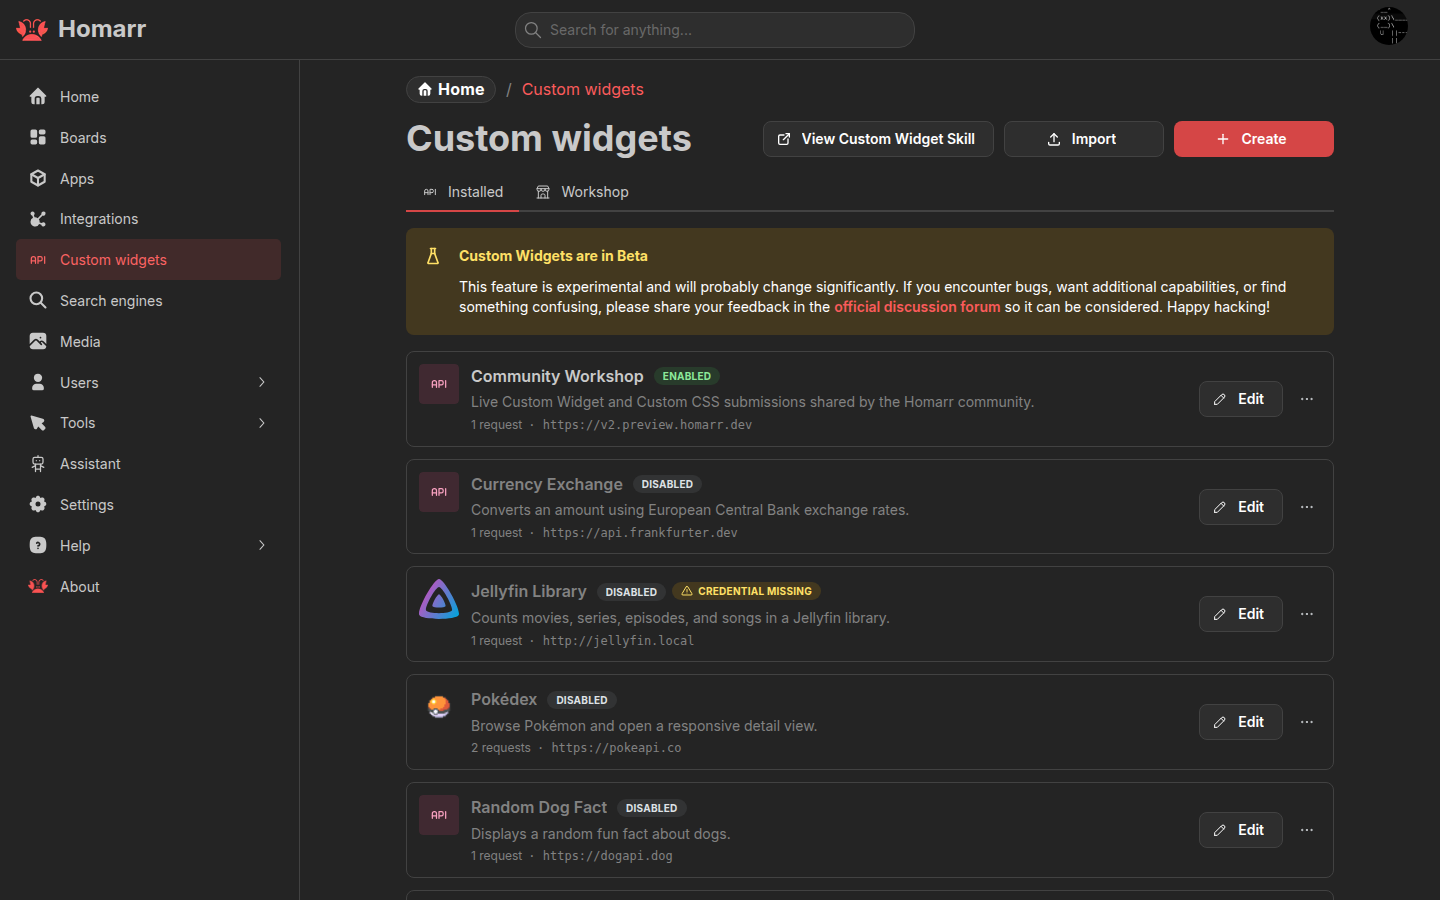
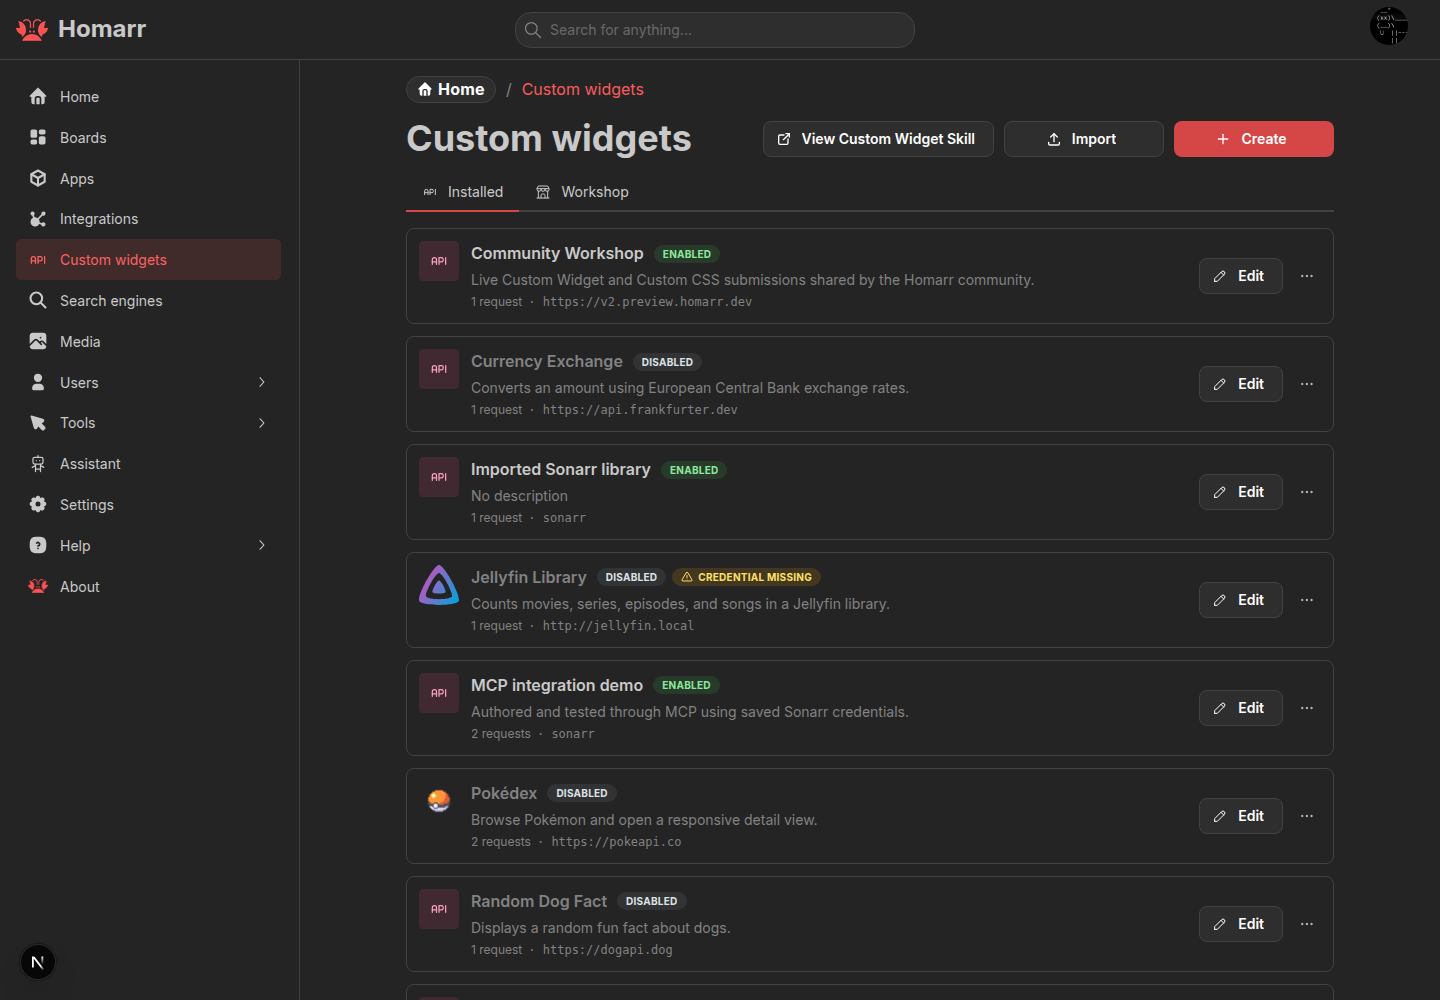
fix: polish custom widget selection and review safeguards

diff --git a/packages/ui/src/components/select-with-custom-items.tsx b/packages/ui/src/components/select-with-custom-items.tsx
@@ -1,8 +1,8 @@
 "use client";
 
-import { useCallback, useMemo } from "react";
+import { useCallback, useMemo, useState } from "react";
 import type { SelectProps } from "@mantine/core";
-import { Combobox, ComboboxClearButton, Input, InputBase, useCombobox } from "@mantine/core";
+import { Combobox, ComboboxClearButton, Input, InputBase, ScrollArea, useCombobox } from "@mantine/core";
 import { useUncontrolled } from "@mantine/hooks";
 
 interface BaseSelectItem {
@@ -21,10 +21,13 @@ export interface SelectWithCustomItemsProps<TSelectItem extends BaseSelectItem> 
   onFocus?: (event: React.FocusEvent<HTMLButtonElement>) => void;
   w?: string;
   withinPortal?: boolean;
+  searchable?: boolean;
+  searchPlaceholder?: string;
+  nothingFoundMessage?: string;
 }
 
 type Props<TSelectItem extends BaseSelectItem> = SelectWithCustomItemsProps<TSelectItem> & {
-  SelectOption: React.ComponentType<TSelectItem>;
+  SelectOption: React.ComponentType<TSelectItem & { checked?: boolean }>;
 };
 
 export const SelectWithCustomItems = <TSelectItem extends BaseSelectItem>({
@@ -37,54 +40,67 @@ export const SelectWithCustomItems = <TSelectItem extends BaseSelectItem>({
   w,
   clearable,
   withinPortal = false,
+  searchable = false,
+  searchPlaceholder,
+  nothingFoundMessage,
   ...props
 }: Props<TSelectItem>) => {
+  const [search, setSearch] = useState("");
   const combobox = useCombobox({
-    onDropdownClose: () => combobox.resetSelectedOption(),
+    onDropdownClose: () => {
+      combobox.resetSelectedOption();
+      setSearch("");
+    },
+    onDropdownOpen: () => {
+      if (searchable) combobox.focusSearchInput();
+    },
   });
 
-  const [_value, setValue] = useUncontrolled({
+  const [selectedValue, setValue] = useUncontrolled({
     value,
     defaultValue,
     finalValue: null,
     onChange,
   });
 
-  const selectedOption = useMemo(() => data.find((item) => item.value === _value), [data, _value]);
+  const selectedOption = useMemo(() => data.find((item) => item.value === selectedValue), [data, selectedValue]);
 
-  const options = data.map((item) => (
-    <Combobox.Option value={item.value} key={item.value}>
-      <SelectOption {...item} />
+  const normalizedSearch = search.toLocaleLowerCase().trim();
+  const filteredData = data.filter((item) => !searchable || item.label.toLocaleLowerCase().includes(normalizedSearch));
+  const options = filteredData.map((item) => (
+    <Combobox.Option value={item.value} key={item.value} active={item.value === selectedValue}>
+      <SelectOption {...item} checked={item.value === selectedValue} />
     </Combobox.Option>
   ));
 
   const toggle = useCallback(() => combobox.toggleDropdown(), [combobox]);
   const onOptionSubmit = useCallback(
-    (value: string) => {
+    (nextValue: string) => {
       setValue(
-        value,
-        data.find((item) => item.value === value),
+        nextValue,
+        data.find((item) => item.value === nextValue),
       );
       combobox.closeDropdown();
+      if (searchable) combobox.focusTarget();
     },
-    [setValue, data, combobox],
+    [setValue, data, combobox, searchable],
   );
 
-  const _clearable = clearable && Boolean(_value);
+  const isClearable = clearable && Boolean(selectedValue);
 
   return (
     <Combobox store={combobox} withinPortal={withinPortal} onOptionSubmit={onOptionSubmit}>
-      <Combobox.Target>
+      <Combobox.Target targetType="button">
         <InputBase
           {...props}
           component="button"
           type="button"
           pointer
           __clearSection={<ComboboxClearButton onClear={() => setValue(null, null)} />}
-          __clearable={_clearable}
+          __clearable={isClearable}
           __defaultRightSection={<Combobox.Chevron />}
           onClick={toggle}
-          rightSectionPointerEvents={_clearable ? "all" : "none"}
+          rightSectionPointerEvents={isClearable ? "all" : "none"}
           multiline
           w={w}
         >
@@ -93,7 +109,30 @@ export const SelectWithCustomItems = <TSelectItem extends BaseSelectItem>({
       </Combobox.Target>
 
       <Combobox.Dropdown>
-        <Combobox.Options>{options}</Combobox.Options>
+        {searchable && (
+          <>
+            <Combobox.Search
+              value={search}
+              placeholder={searchPlaceholder}
+              aria-label={searchPlaceholder}
+              onChange={(event) => {
+                setSearch(event.currentTarget.value);
+                combobox.updateSelectedOptionIndex();
+              }}
+              onBlur={() => combobox.closeDropdown()}
+              onKeyDown={(event) => {
+                if (event.key === "Escape") combobox.focusTarget();
+              }}
+            />
+            <Combobox.Options>
+              <ScrollArea.Autosize mah="min(250px, 50dvh)" type="scroll">
+                {options}
+                {options.length === 0 && <Combobox.Empty>{nothingFoundMessage}</Combobox.Empty>}
+              </ScrollArea.Autosize>
+            </Combobox.Options>
+          </>
+        )}
+        {!searchable && <Combobox.Options>{options}</Combobox.Options>}
       </Combobox.Dropdown>
     </Combobox>
   );

diff --git a/apps/nextjs/src/components/custom-widgets/integration-source-select.tsx b/apps/nextjs/src/components/custom-widgets/integration-source-select.tsx
@@ -10,11 +10,21 @@ import { clientApi } from "@homarr/api/client";
 import type { CustomWidgetIntegrationSource } from "@homarr/custom-widgets/core";
 import { httpIntegrationKinds, integrationDefs, isHttpIntegrationKind } from "@homarr/definitions";
 import { useI18n } from "@homarr/translation/client";
-import { IntegrationAvatar } from "@homarr/ui";
+import { IntegrationAvatar, SelectWithCustomItems } from "@homarr/ui";
 
 const integrationTypeOptions = httpIntegrationKinds
   .map((value) => ({ value, label: integrationDefs[value].name }))
   .toSorted((left, right) => left.label.localeCompare(right.label));
+
+function IntegrationTypeOption({ value, label, checked }: { value: string; label: string; checked?: boolean }) {
+  return (
+    <Group flex="1" gap="xs" wrap="nowrap">
+      {isHttpIntegrationKind(value) && <IntegrationAvatar kind={value} size="xs" />}
+      <Text size="sm">{label}</Text>
+      {checked && <IconCheck size={16} style={{ marginInlineStart: "auto", flexShrink: 0 }} />}
+    </Group>
+  );
+}
 
 interface IntegrationSourceSelectProps {
   kind: CustomWidgetIntegrationSource["integrationKind"];
@@ -25,6 +35,8 @@ interface IntegrationSourceSelectProps {
 
 export function IntegrationSourceSelect({ kind, integrationId, onChange, onKindChange }: IntegrationSourceSelectProps) {
   const t = useI18n("customWidget.workbench.sources");
+  const tIntegration = useI18n("integration");
+  const tCommon = useI18n("common");
   const query = clientApi.integration.all.useQuery();
   const integrations = (query.data ?? []).filter(
     (integration) => integration.kind === kind && integration.permissions.hasFullAccess,
@@ -33,24 +45,18 @@ export function IntegrationSourceSelect({ kind, integrationId, onChange, onKindC
   return (
     <Stack gap="sm">
       {onKindChange && (
-        <Select
+        <SelectWithCustomItems
           label={t("integrationType")}
           searchable
+          searchPlaceholder={tIntegration("page.list.search")}
+          nothingFoundMessage={tCommon("noResults")}
           data={integrationTypeOptions}
           value={kind}
-          allowDeselect={false}
-          leftSection={isHttpIntegrationKind(kind) && <IntegrationAvatar kind={kind} size="xs" />}
-          leftSectionPointerEvents="none"
-          renderOption={({ option, checked }) => (
-            <Group flex="1" gap="xs" wrap="nowrap">
-              {isHttpIntegrationKind(option.value) && <IntegrationAvatar kind={option.value} size="xs" />}
-              <Text size="sm">{option.label}</Text>
-              {checked && <IconCheck size={16} style={{ marginInlineStart: "auto", flexShrink: 0 }} />}
-            </Group>
-          )}
+          SelectOption={IntegrationTypeOption}
+          withinPortal
           onChange={(value) => {
             const selected = httpIntegrationKinds.find((candidate) => candidate === value);
-            if (selected) onKindChange(selected);
+            if (selected && selected !== kind) onKindChange(selected);
           }}
         />
       )}

diff --git a/packages/custom-widgets/src/server/request-executor.ts b/packages/custom-widgets/src/server/request-executor.ts
@@ -88,7 +88,11 @@ async function performRequestWithinDeadline(
   let currentUrl = resolveSameOriginTarget(input.baseUrl, input.targetUrl);
   let currentMethod = input.method;
   let currentBody = input.body;
-  const maxRedirects = input.kind === "query" ? MAX_QUERY_REDIRECTS : 0;
+  const authenticated =
+    input.auth !== undefined &&
+    input.auth.type !== "none" &&
+    (input.auth.type !== "integration" || Object.keys(input.auth.headers ?? {}).length > 0);
+  const maxRedirects = input.kind === "query" && !authenticated ? MAX_QUERY_REDIRECTS : 0;
   for (let redirects = 0; ; redirects += 1) {
     if (input.pathPrefix !== undefined) assertCustomWidgetPathScope(currentUrl, input.pathPrefix);
     const dispatcher = createPinnedAgent(

diff --git a/apps/nextjs/src/app/[locale]/manage/custom-widgets/page.tsx b/apps/nextjs/src/app/[locale]/manage/custom-widgets/page.tsx
@@ -9,7 +9,6 @@ import { Link } from "@homarr/ui";
 
 import { ManagePageLayout } from "~/components/manage/manage-page-layout";
 import { MobileAffixButton } from "~/components/manage/mobile-affix-button";
-import { CustomWidgetBetaBanner } from "./_beta-banner";
 import { CustomWidgetList } from "./_custom-widget-list";
 import { CustomWidgetTabs } from "./_custom-widget-tabs";
 import { ImportCustomWidgetButton } from "./_import-custom-widget-button";
@@ -47,7 +46,6 @@ export default async function CustomWidgetsPage() {
       }
       toolbar={<CustomWidgetTabs active="installed" />}
     >
-      <CustomWidgetBetaBanner />
       <CustomWidgetList definitions={definitions} />
     </ManagePageLayout>
   );

diff --git a/apps/nextjs/src/app/[locale]/manage/custom-widgets/edit/[id]/page.tsx b/apps/nextjs/src/app/[locale]/manage/custom-widgets/edit/[id]/page.tsx
@@ -6,7 +6,6 @@ import { auth } from "@homarr/auth/next";
 
 import { DynamicBreadcrumb } from "~/components/navigation/dynamic-breadcrumb";
 import { catchTrpcNotFound } from "~/errors/trpc-catch-error";
-import { CustomWidgetBetaBanner } from "../../_beta-banner";
 import { CustomWidgetForm } from "../../_custom-widget-form";
 import { FormErrorBoundary } from "../../_form-error-boundary";
 
@@ -28,7 +27,6 @@ export default async function EditCustomWidgetPage(props: EditCustomWidgetPagePr
       <Container fluid>
         <Stack>
           <Title>{definition.name}</Title>
-          <CustomWidgetBetaBanner />
           <FormErrorBoundary>
             <CustomWidgetForm
               mode="edit"

diff --git a/apps/nextjs/src/app/[locale]/manage/custom-widgets/new/page.tsx b/apps/nextjs/src/app/[locale]/manage/custom-widgets/new/page.tsx
@@ -5,7 +5,6 @@ import { auth } from "@homarr/auth/next";
 import { getI18n } from "@homarr/translation/server";
 
 import { DynamicBreadcrumb } from "~/components/navigation/dynamic-breadcrumb";
-import { CustomWidgetBetaBanner } from "../_beta-banner";
 import { CustomWidgetForm } from "../_custom-widget-form";
 import { FormErrorBoundary } from "../_form-error-boundary";
 
@@ -27,7 +26,6 @@ export default async function NewCustomWidgetPage() {
               {t("page.create.subtitle")}
             </Text>
           </div>
-          <CustomWidgetBetaBanner />
           <FormErrorBoundary>
             <CustomWidgetForm mode="create" />
           </FormErrorBoundary>

diff --git a/packages/custom-widgets/src/server/response.ts b/packages/custom-widgets/src/server/response.ts
@@ -79,6 +79,8 @@ export function redactResponseSecrets(data: unknown, secrets: Array<{ kind: stri
       JSON.stringify(value).slice(1, -1),
       encodeURIComponent(value),
       Buffer.from(value).toString("base64"),
+      Buffer.from(value).toString("base64").replace(/=+$/u, ""),
+      Buffer.from(value).toString("base64url"),
     ]) {
       sensitive.add(encoded);
       // Usernames and short credentials can be ordinary words or characters in response data.

diff --git a/packages/custom-widgets/src/server/network-policy.ts b/packages/custom-widgets/src/server/network-policy.ts
@@ -239,7 +239,7 @@ function decodePath(value: string) {
     try {
       decoded = decodeURIComponent(path);
     } catch {
-      return path;
+      throw new CustomWidgetDomainError({ code: "FORBIDDEN", message: "Request path contains invalid encoding" });
     }
     if (decoded === path) return path;
     path = decoded;
